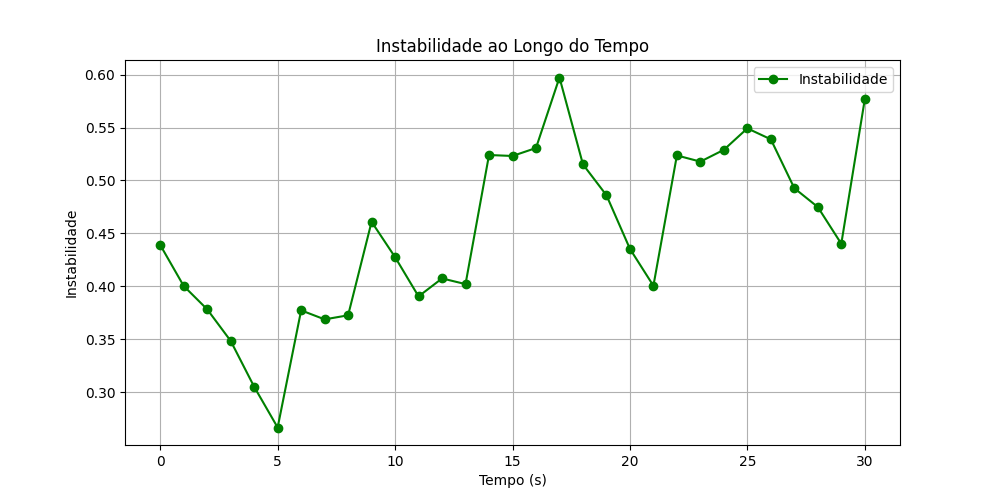
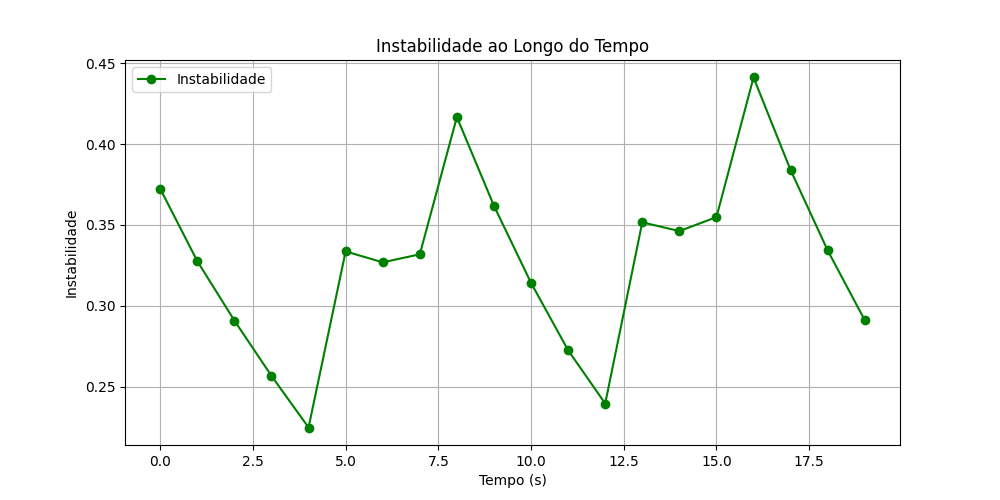
Graficos e segment size response

diff --git a/r2a/r2apanda.py b/r2a/r2apanda.py
@@ -1,7 +1,7 @@
 from r2a.ir2a import IR2A
 from player.parser import *
 from time import perf_counter, sleep
-from statistics import harmonic_mean
+from statistics import harmonic_mean, stdev
 
 from base.whiteboard import Whiteboard
 
@@ -82,7 +82,7 @@ class R2APanda(IR2A):
         self.ycn = self.alpha * self.xcn + (1 - self.alpha) * self.ycn_m1
         
         #EWMA formula original
-        #self.ycn = ((self.alpha - 1) * self.tempo_ultima_solicitação_global * (self.ycn_m1 - xcn)) + self.ycn_m1
+        #self.ycn = ((self.alpha - 1) * self.tempo_ultima_solicitação_global * (self.ycn_m1 - self.xcn)) + self.ycn_m1
 
         self.taxa_transferencias_estimadas.append(self.ycn)
         self.ycn_m1 = self.ycn
@@ -93,7 +93,7 @@ class R2APanda(IR2A):
         msg.add_quality_id(lista_selecionada)
 
         #Agendamento
-        buffer_minimo = 15
+        buffer_minimo = 26
         self.tempo_proxima_solicitacao = ((lista_selecionada * msg.get_segment_size())/self.ycn) + (self.beta * (self.tamanho_utlimo_buffer - buffer_minimo))
         self.tamanho_utlimo_buffer = self.whiteboard.get_amount_video_to_play() #Atualiza o estado do buffer com a qualidade de video restante para a reprodução.
 
@@ -102,25 +102,12 @@ class R2APanda(IR2A):
     def handle_segment_size_response(self, msg):
         self.xtn_m1 = msg.get_bit_length() / (perf_counter() - self.tempo_ultima_solicitacao)
         self.taxa_transferencias.append(self.xtn_m1)
-        
-        # Cálculo do Jain's Fairness Index
-        jain_fairness = self.calcular_jains_fairness_index(self.taxa_transferencias)
-        # Cálculo da Unfairness
-        unfairness = self.calcular_unfairness(jain_fairness)
 
-        self.plot_filas()
-        self.plot_tamanho_buffers()
-        self.plot_taxas_transferencia()
-
-        # Plota a instabilidade
-        self.plot_instabilidade()
-        
-        self.plot_ineficiencia()
-        
-        self.plot_unfairness(unfairness)
-        
-        self.plot_ineficiencia_instabilidade()
-
+        self.grafico_filas()
+        self.grafico_taxas_transferencia()
+        self.grafico_instabilidade()
+        self.grafico_desvio_padrao_transferencias()
+        self.grafico_distribuicao_taxas()
 
         self.send_up(msg)
         pass
@@ -131,9 +118,8 @@ class R2APanda(IR2A):
     def finalization(self):
         pass 
 
-    def plot_filas(self):
-        dados = self.whiteboard.get_playback_qi()  # Exemplo: [(tempo1, taxa1), (tempo2, taxa2)]
-        print("KKKKKKKKKKKKKKKKKKKKKKKKKKKKKKKKKKKKKKKKKKK", dados)
+    def grafico_filas(self):
+        dados = self.whiteboard.get_playback_qi() 
         tempos, taxas = zip(*dados) if dados else ([], [])
 
         plt.figure(figsize=(10, 5))
@@ -144,19 +130,8 @@ class R2APanda(IR2A):
         plt.grid(True)
         plt.savefig("grafico_fila_tempo.png")
     
-    def plot_tamanho_buffers(self):
-        dados_buffer = self.whiteboard.get_playback_buffer_size()
-        tempos_buffer, tamanhos_buffer = zip(*dados_buffer) if dados_buffer else ([], [])
 
-        plt.figure(figsize=(10, 5))
-        plt.plot(tempos_buffer, tamanhos_buffer, marker='x', color='red', label="Tamanho do buffer")
-        plt.title("Tamanho do Buffer ao Longo do Tempo")
-        plt.xlabel("Tempo (s)")
-        plt.ylabel("Tamanho do Buffer")
-        plt.grid(True)
-        plt.savefig("grafico_buffer_tempo.png")
-
-    def plot_taxas_transferencia(self):
+    def grafico_taxas_transferencia(self):
         tempos = [i for i in range(len(self.taxa_transferencias))]
         plt.figure(figsize=(10, 5))
         plt.plot(tempos, self.taxa_transferencias, marker='o', label="Taxa de Transferência Real")
@@ -169,10 +144,9 @@ class R2APanda(IR2A):
         plt.savefig("grafico_taxas_transferencia_tempo.png")
         
     def calcular_instabilidade(self):
-        k = 20  # Número de amostras (segundos)
+        k = 20  # Número de amostras 
         instabilidade = []
-
-        # Verifique se há pelo menos 'k' amostras
+        
         if len(self.taxa_transferencias) < k:
             return instabilidade
 
@@ -183,14 +157,12 @@ class R2APanda(IR2A):
             if denominador != 0:
                 instabilidade.append(numerador / denominador)
             else:
-                instabilidade.append(0)  # Evitar divisão por zero
+                instabilidade.append(0)  # Evita a divisão por zero
 
         return instabilidade
 
-    def plot_instabilidade(self):
+    def grafico_instabilidade(self):
         instabilidade = self.calcular_instabilidade()
-        
-        # Plotar a instabilidade ao longo do tempo
         tempos = [i for i in range(len(instabilidade))]
 
         plt.figure(figsize=(10, 5))
@@ -202,82 +174,28 @@ class R2APanda(IR2A):
         plt.grid(True)
         plt.savefig("grafico_instabilidade_tempo.png")
         
-    def calcular_ineficiencia(self):
-        C = sum(self.taxa_transferencias_estimadas)  # Soma das taxas estimadas, por exemplo
-        soma_taxas = sum(self.taxa_transferencias)
-        print("CCCCCCCCCC: ", C)
-        print("TAXAAAAA: ", soma_taxas)
-        print((soma_taxas - C) / C)
-
-        if C > 0:
-            ineficiencia = max(0, (soma_taxas - C) / C)
-        else:
-            ineficiencia = 0
+    
+    def grafico_desvio_padrao_transferencias(self):
+        if len(self.taxa_transferencias) < 2:
+            return
         
-        return ineficiencia
-
-    def plot_ineficiencia(self):
-        ineficiencia = self.calcular_ineficiencia()
+        desvios = [stdev(self.taxa_transferencias[:i+1]) for i in range(1, len(self.taxa_transferencias))]
+        tempos = range(1, len(desvios) + 1)
         
-        # Plotar a ineficiência ao longo do tempo
-        tempos = [i for i in range(len(self.taxa_transferencias))]
-
         plt.figure(figsize=(10, 5))
-        plt.plot(tempos, [ineficiencia] * len(tempos), marker='x', color='red', label="Ineficiência")
-        plt.title("Ineficiência ao Longo do Tempo")
+        plt.plot(tempos, desvios, marker='o', color='purple', label="Desvio Padrão das Taxas")
+        plt.title("Desvio Padrão das Taxas de Transferência")
         plt.xlabel("Tempo (s)")
-        plt.ylabel("Ineficiência")
+        plt.ylabel("Desvio Padrão")
         plt.legend()
         plt.grid(True)
-        plt.savefig("grafico_ineficiencia_tempo.png")
-        
-    def calcular_jains_fairness_index(self, rates):
-        n = len(rates)
-        soma_taxas = sum(rates)
-        soma_quadrados_taxas = sum([r**2 for r in rates])
-        
-        jain_fairness = (soma_taxas**2) / (n * soma_quadrados_taxas)
-        return jain_fairness
-        
-    def calcular_unfairness(self, jain_fairness):
-        # Calculando a Unfairness
-        unfairness = math.sqrt(1 - jain_fairness)
-        return unfairness
-
-    def plot_unfairness(self, unfairness):
-        tempos = [i for i in range(len(self.taxa_transferencias))]
-        
+        plt.savefig("grafico_desvio_padrao.png")
+    
+    def grafico_distribuicao_taxas(self):
         plt.figure(figsize=(10, 5))
-        plt.plot(tempos, [unfairness] * len(tempos), marker='x', color='purple', label="Unfairness")
-        plt.title("Unfairness ao Longo do Tempo")
-        plt.xlabel("Tempo (s)")
-        plt.ylabel("Unfairness")
-        plt.legend()
+        plt.hist(self.taxa_transferencias, bins=20, color='blue', edgecolor='black', alpha=0.7)
+        plt.title("Distribuição das Taxas de Transferência")
+        plt.xlabel("Taxa de Transferência (bits/s)")
+        plt.ylabel("Frequência")
         plt.grid(True)
-        plt.savefig("grafico_unfairness_tempo.png")
-
-    def plot_ineficiencia_instabilidade(self):
-        # Calcular a ineficiência a cada tempo
-        ineficiencia = [self.calcular_ineficiencia()] * len(self.taxa_transferencias)
-        
-        # Calcular a instabilidade
-        instabilidade = self.calcular_instabilidade()
-        
-        # Ajuste para que o número de pontos das duas listas seja igual
-        # Caso a instabilidade tenha menos pontos, estenda o último valor para o número de pontos de ineficiência
-        instabilidade_anterior = 0
-        if len(instabilidade) > 2 :
-            instabilidade_anterior = instabilidade[-1]
-            
-        if len(instabilidade) < len(ineficiencia):
-            instabilidade = instabilidade + [instabilidade_anterior] * (len(ineficiencia) - len(instabilidade))
-
-        # Plotando a relação entre ineficiência e instabilidade
-        plt.figure(figsize=(10, 5))
-        plt.plot(ineficiencia, instabilidade, marker='o', color='orange', label="Relação Ineficiência vs Instabilidade")
-        plt.title("Relação entre Ineficiência e Instabilidade")
-        plt.xlabel("Ineficiência")
-        plt.ylabel("Instabilidade")
-        plt.legend()
-        plt.grid(True)
-        plt.savefig("grafico_ineficiencia_instabilidade.png")
+        plt.savefig("grafico_distribuicao_taxas.png")
